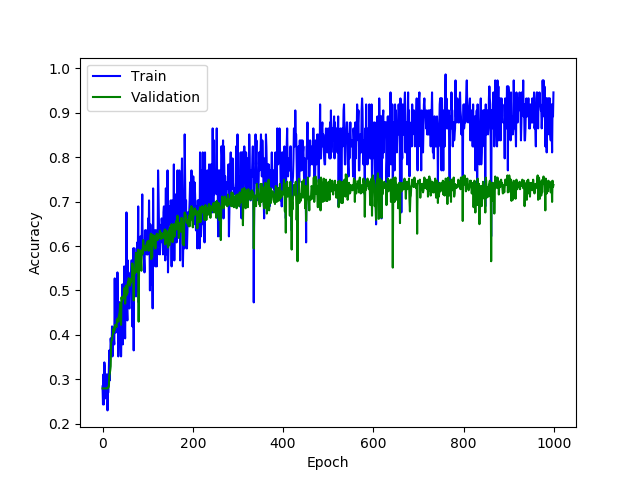
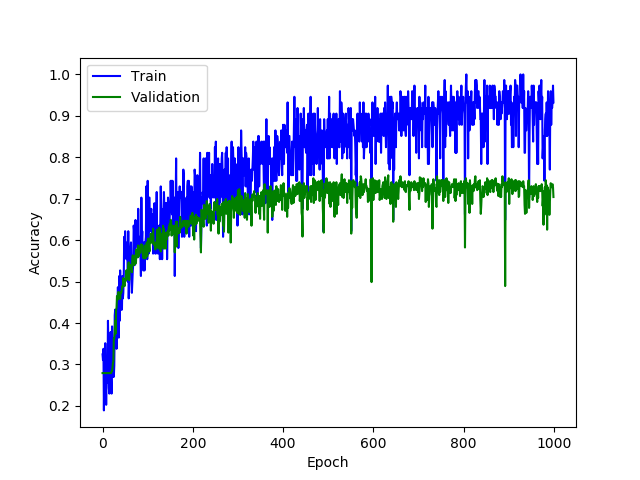
modify image

diff --git a/Classification/nn.py b/Classification/nn.py
@@ -213,7 +213,7 @@ def NNUpdate(model, eps, momentum):
 
 
 def Train(model, forward, backward, update, eps, momentum, num_epochs,
-          batch_size):
+          batch_size, num_hiddens):
     """Trains a simple MLP.
 
     Args:
@@ -284,11 +284,8 @@ def Train(model, forward, backward, update, eps, momentum, num_epochs,
         train_acc_list.append((epoch, train_acc))
         valid_ce_list.append((epoch, valid_ce))
         valid_acc_list.append((epoch, valid_acc))
-        #DisplayPlot(train_ce_list, valid_ce_list, 'Cross Entropy', number=0)
-        #DisplayPlot(train_acc_list, valid_acc_list, 'Accuracy', number=1)
 
-    DisplayPlot(batch_size,eps,momentum,train_ce_list, valid_ce_list, 'Cross Entropy', number=0,final = True)
-    DisplayPlot(batch_size,eps,momentum,train_acc_list, valid_acc_list, 'Accuracy', number=1,final = True)
+
 
     print()
     train_ce, train_acc = Evaluate(
@@ -301,6 +298,11 @@ def Train(model, forward, backward, update, eps, momentum, num_epochs,
           (train_ce, valid_ce, test_ce))
     print('Acc: Train {:.5f} Validation {:.5f} Test {:.5f}'.format(
         train_acc, valid_acc, test_acc))
+
+    DisplayPlot(test_acc,num_hiddens, batch_size, eps, momentum, train_ce_list, valid_ce_list, 'Cross Entropy', number=0,
+                final=True)
+    DisplayPlot(test_acc,num_hiddens, batch_size, eps, momentum, train_acc_list, valid_acc_list, 'Accuracy', number=1,
+                final=True)
 
     stats = {
         'train_ce': train_ce_list,
@@ -359,7 +361,7 @@ def CheckGrad(model, forward, backward, name, x):
     grad_w_2 = np.zeros(w_.shape)
     check_elem = np.arange(w_.size)
     np.random.shuffle(check_elem)
-    # Randomly check 20 elements.
+    # Randomly check 10 elements.
     check_elem = check_elem[:20]
     for ii in check_elem:
         w_[ii] += eps
@@ -378,45 +380,47 @@ def main():
     stats_fname = 'nn_stats.npz'
 
     # Hyper-parameters. Modify them if needed.
-    num_hiddens = [100, 100]
+    num_hiddens = [[3, 3],[20,20],[100,100]]
     eps = [0.001]
     momentum = [0.9]
     num_epochs = 1000
-    batch_size = 100
+    batch_size = [10]
 
     # Input-output dimensions.
     num_inputs = 2304
     num_outputs = 7
 
     # Initialize model.
-    model = InitNN(num_inputs, num_hiddens, num_outputs)
+    for hiddens in num_hiddens:
+        model = InitNN(num_inputs, hiddens, num_outputs)
 
-    # Uncomment to reload trained model here.
-    # model = Load(model_fname)
+        # Uncomment to reload trained model here.
+        # model = Load(model_fname)
 
-    # Check gradient implementation.
-    print('Checking gradients...')
-    x = np.random.rand(10, 48 * 48) * 0.1
-    CheckGrad(model, NNForward, NNBackward, 'W3', x)
-    CheckGrad(model, NNForward, NNBackward, 'b3', x)
-    CheckGrad(model, NNForward, NNBackward, 'W2', x)
-    CheckGrad(model, NNForward, NNBackward, 'b2', x)
-    CheckGrad(model, NNForward, NNBackward, 'W1', x)
-    CheckGrad(model, NNForward, NNBackward, 'b1', x)
+        # Check gradient implementation.
+        print('Checking gradients...')
+        x = np.random.rand(10, 48 * 48) * 0.1
+        CheckGrad(model, NNForward, NNBackward, 'W3', x)
+        CheckGrad(model, NNForward, NNBackward, 'b3', x)
+        CheckGrad(model, NNForward, NNBackward, 'W2', x)
+        CheckGrad(model, NNForward, NNBackward, 'b2', x)
+        CheckGrad(model, NNForward, NNBackward, 'W1', x)
+        CheckGrad(model, NNForward, NNBackward, 'b1', x)
 
-    # Train model.
-    for m in momentum:
-        for lr in eps:
-            stats = Train(model, NNForward, NNBackward, NNUpdate, lr,
-                          m, num_epochs, batch_size)
-            # Initialize model.
-            model = InitNN(num_inputs, num_hiddens, num_outputs)
+        # Train model.
+        for batch in batch_size:
+            for m in momentum:
+                for lr in eps:
+                    stats = Train(model, NNForward, NNBackward, NNUpdate, lr,
+                                  m, num_epochs, batch,hiddens)
+                    # Initialize model.
+                    model = InitNN(num_inputs, hiddens, num_outputs)
 
-    # Uncomment if you wish to save the model.
-    # Save(model_fname, model)
+        # Uncomment if you wish to save the model.
+        # Save(model_fname, model)
 
-    # Uncomment if you wish to save the training statistics.
-    # Save(stats_fname, stats)
+        # Uncomment if you wish to save the training statistics.
+        # Save(stats_fname, stats)
 
 
 if __name__ == '__main__':

diff --git a/Classification/util.py b/Classification/util.py
@@ -60,7 +60,7 @@ def Load(fname):
     return dict(np.load(fname))
 
 
-def DisplayPlot(batch,eps,momentum,train, valid, ylabel, number=0, final=False):
+def DisplayPlot(test_acc,num_hiddens,batch,eps,momentum,train, valid, ylabel, number=0, final=False):
     """Displays training curve.
 
     Args:
@@ -81,6 +81,6 @@ def DisplayPlot(batch,eps,momentum,train, valid, ylabel, number=0, final=False):
     plt.pause(0.0001)
     if final:
         if number == 0:
-            plt.savefig('graph/{}/{}_{}_{}.png'.format(str(batch),str(eps),str(momentum),'loss'))
+            plt.savefig('graph/hiddens/{}_loss.png'.format(str(num_hiddens)))
         else:
-            plt.savefig('graph/{}/{}_{}_{}.png'.format(str(batch),str(eps),str(momentum), 'acc'))
+            plt.savefig('graph/hiddens/{}_{}_acc.png'.format(str(num_hiddens),str(test_acc)))
